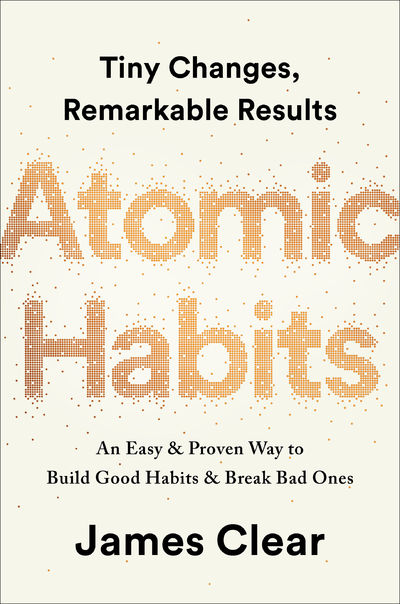
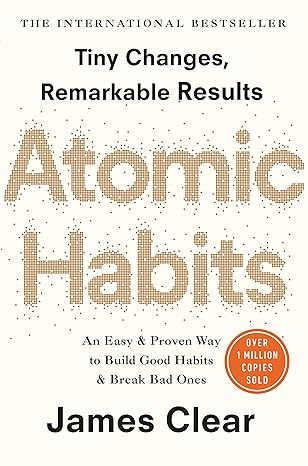
added covers and refactored component

Changed region(s): [[0.0, 0.0, 1.0, 1.0], [0.0584, 0.03, 0.5844, 0.0601], [0.6136, 0.03, 0.9351, 0.0601]]

diff --git a/index.html b/index.html
@@ -3,30 +3,120 @@
   <head>
     <meta charset="UTF-8" />
     <meta name="viewport" content="width=device-width, initial-scale=1.0" />
-    <!-- <script src="./components/book/book.js"></script> -->
     <script type="module" src="./components/book/book.js"></script>
     <title>My-Favourite-Books</title>
   </head>
   <style>
+    body {
+      background-color: #333333;
+    }
     .container {
+      background-color: #333333;
+      margin: auto;
+      width: 680px;
       display: flex;
-      align-items: flex-start;
+      align-items: center;
+      justify-content: flex-start;
+      flex-wrap: wrap;
+    }
+
+    .category-title {
+      text-transform: uppercase;
+      color: #848484;
+      text-align: center;
     }
   </style>
   <body>
-    <h1>Books</h1>
+    <h1 class="category-title">Personal Growth/Mindset</h1>
     <div class="container">
       <book-component
         title="Lorem ipsum"
         cover="/covers/atomic-habits.jpg"
-        description="Lorem ipsum dolor sit amet consectetur adipisicing elit. Maxime mollitia,
-          molestiae quas vel sint commodi repudiandae consequuntur voluptatum laborum"
+        description="Lorem ipsum dolor sit amet consectetur adipisicing elit."
       ></book-component>
       <book-component
         title="Lorem ipsum"
         cover="/covers/deep-work.jpg"
-        description="Lorem ipsum dolor sit amet consectetur adipisicing elit. Maxime mollitia,
-        molestiae quas vel sint commodi repudiandae consequuntur voluptatum laborum"
+        description="Lorem ipsum dolor sit amet consectetur adipisicing elit."
+      ></book-component>
+      <book-component
+        title="Lorem ipsum"
+        cover="/covers/the-stoic-mind.jpg"
+        description="Lorem ipsum dolor sit amet consectetur adipisicing elit."
+      ></book-component>
+      <book-component
+        title="Lorem ipsum"
+        cover="/covers/the-black-swan.jpg"
+        description="Lorem ipsum dolor sit amet consectetur adipisicing elit."
+      ></book-component>
+    </div>
+    <h1 class="category-title">Novels</h1>
+    <div class="container">
+      <book-component
+        title="Lorem ipsum"
+        cover="/covers/the-shadow-of-the-wind.jpg"
+        description="Lorem ipsum dolor sit amet consectetur adipisicing elit."
+      ></book-component>
+      <book-component
+        title="Lorem ipsum"
+        cover="/covers/the-catcher-in-the-rye.jpg"
+        description="Lorem ipsum dolor sit amet consectetur adipisicing elit."
+      ></book-component>
+      <book-component
+        title="Lorem ipsum"
+        cover="/covers/days-at-the-morisaki-bookshop.jpg"
+        description="Lorem ipsum dolor sit amet consectetur adipisicing elit."
+      ></book-component>
+      <book-component
+        title="Lorem ipsum"
+        cover="/covers/joyland.jpg"
+        description="Lorem ipsum dolor sit amet consectetur adipisicing elit."
+      ></book-component>
+      <book-component
+        title="Lorem ipsum"
+        cover="/covers/ten-little-indians.jpg"
+        description="Lorem ipsum dolor sit amet consectetur adipisicing elit."
+      ></book-component>
+      <book-component
+        title="Lorem ipsum"
+        cover="/covers/the-angel-s-game.jpg"
+        description="Lorem ipsum dolor sit amet consectetur adipisicing elit."
+      ></book-component>
+      <book-component
+        title="Lorem ipsum"
+        cover="/covers/the-body.jpg"
+        description="Lorem ipsum dolor sit amet consectetur adipisicing elit."
+      ></book-component>
+      <book-component
+        title="Lorem ipsum"
+        cover="/covers/everyone-in-my-family.jpg"
+        description="Lorem ipsum dolor sit amet consectetur adipisicing elit."
+      ></book-component>
+      <h1 class="category-title">Software Development</h1>
+      <book-component
+        title="Lorem ipsum"
+        cover="/covers/angular-ninja.png"
+        description="Lorem ipsum dolor sit amet consectetur adipisicing elit."
+      ></book-component>
+      <book-component
+        title="Lorem ipsum"
+        cover="/covers/refactoring.jpg"
+        description="Lorem ipsum dolor sit amet consectetur adipisicing elit."
+      ></book-component>
+      <book-component
+        title="Lorem ipsum"
+        cover="/covers/js-design-pattern.jpg"
+        description="Lorem ipsum dolor sit amet consectetur adipisicing elit."
+      ></book-component>
+      <book-component
+        title="Lorem ipsum"
+        cover="/covers/the-soft-part.png"
+        description="Lorem ipsum dolor sit amet consectetur adipisicing elit."
+      ></book-component>
+      <book-component
+        title="Lorem ipsum"
+        cover="/covers/clean-architecture.jpg"
+        description="Lorem ipsum dolor sit amet consectetur adipisicing elit."
       ></book-component>
     </div>
   </body>

diff --git a/components/book/book.js b/components/book/book.js
@@ -1,22 +1,19 @@
 class Book extends HTMLElement {
-
-    static get observedAttributes() {
-        return ['title', 'cover', 'description'];
-      }
+  static get observedAttributes() {
+    return ["title"];
+  }
 
   constructor() {
     super();
-    this.title = this.getAttribute('title');
-    this.cover = this.getAttribute('cover');
-    this.description = this.getAttribute('description');
+    this.cover = this.getAttribute("cover");
   }
 
   connectedCallback() {
     const shadow = this.attachShadow({ mode: "closed" });
     shadow.innerHTML = `<div class="book">
-                            <h4>${this.title}</h4>
-                            <img class="cover" src="${this.cover}"/>
-                            <p class="description">${this.description}</p>
+                            <div class="cover-container">
+                              <img class="cover" src="${this.cover}"/>
+                            </div>
                         </div>
                         
                         <style>
@@ -26,14 +23,19 @@ class Book extends HTMLElement {
                                 flex-direction: column;
                                 padding: 15px;
                                 margin: 5px;
-                                width: 250px;
+                                width: 300px;
                              
                                 border-radius: 10px;
-                                background-color: #F9F9F9;
+                                background-color: #333333;
                             }
 
                             .cover {
                                 width: 100%;
+                            }
+
+                            .cover-container {
+                              overflow: hidden;
+                              height: 460px;
                             }
                         </style>`;
   }
